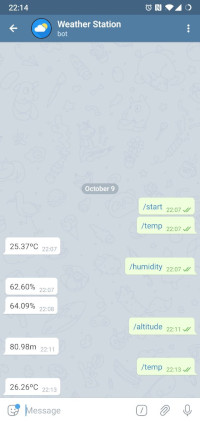
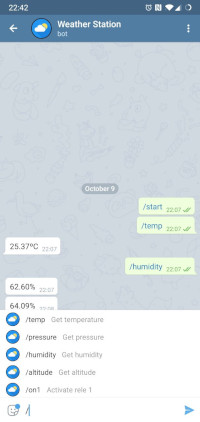
Update telegram image with commands

Changed region(s): [[0.0, 0.7085, 1.0, 0.9858], [0.09, 0.0, 0.15, 0.0308], [0.9, 0.0, 0.93, 0.0308]]

diff --git a/README.md b/README.md
@@ -31,4 +31,10 @@ sudo chmod a+rw /dev/ttyUSB0
 
 Some information is sent to serial, so can check if the wifi is already conected
 
+## Telegram Bot
+
+Example bot output
+
 ![Telegram Bot](doc/telegrambot.jpg)
+
+Customize icon, commands via BotFather
